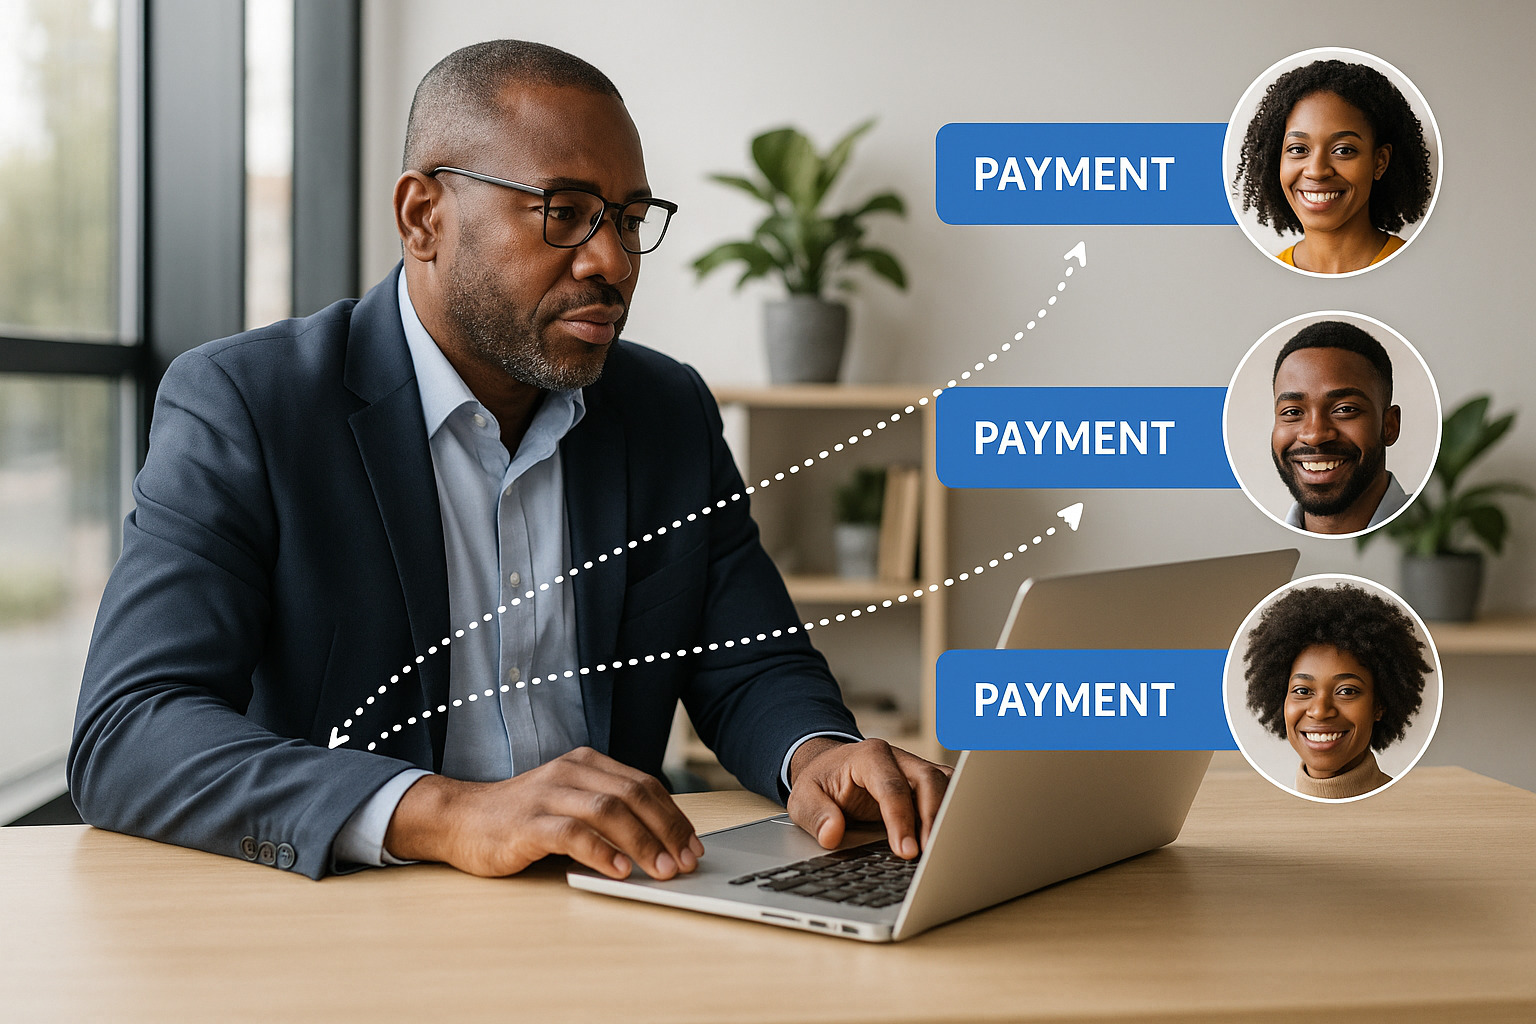
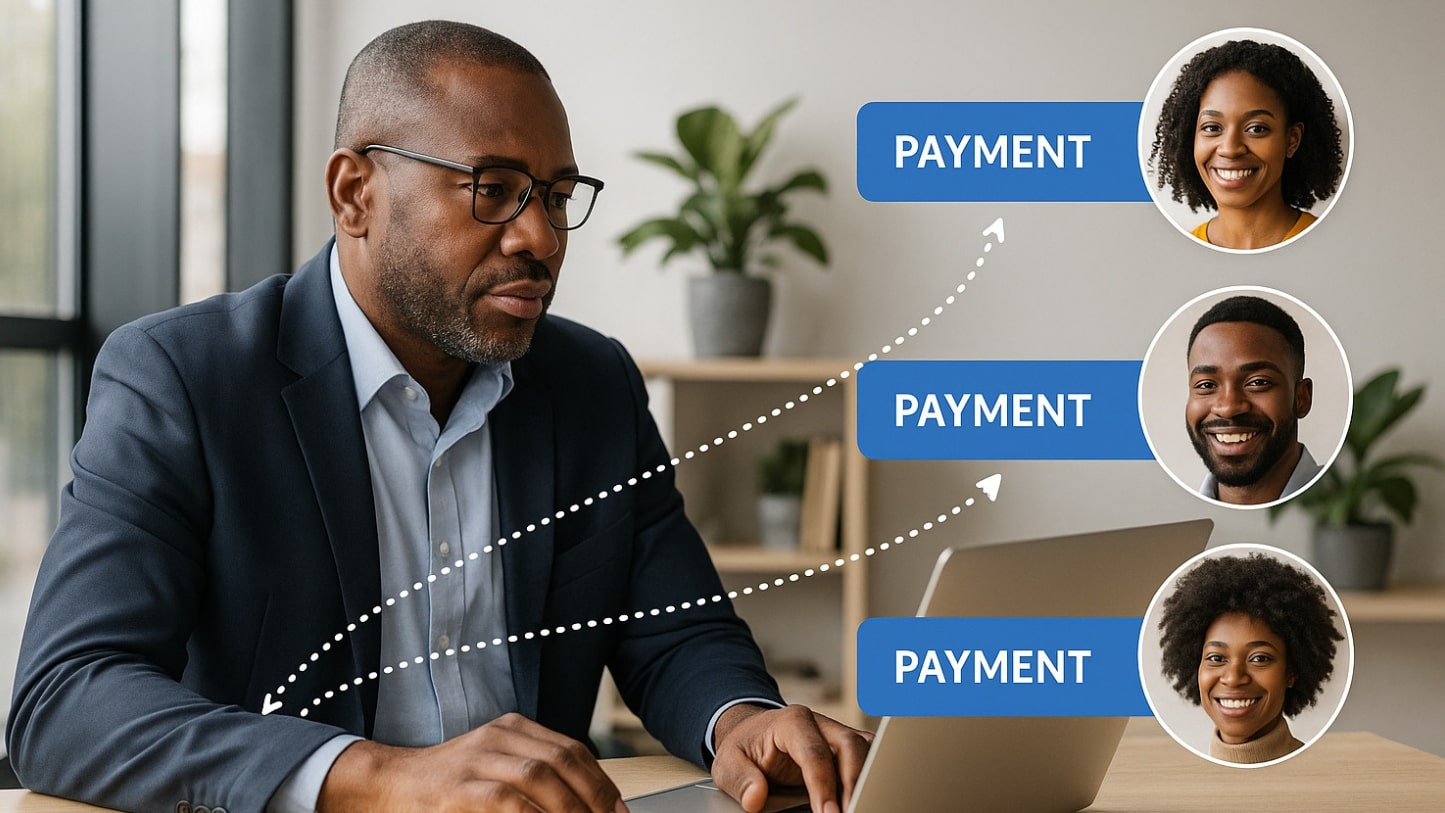
refactor: simplify the solution code and adjust the image size

diff --git a/components/sections/solutions.tsx b/components/sections/solutions.tsx
@@ -7,11 +7,7 @@ import { motion } from "framer-motion";
 import { Button } from "@/components/ui/button";
 import { solutionsData } from "@/data/solutions";
 import { useI18n } from "@/locales/client";
-import {
-  FaCreditCard,
-  FaArrowRight,
-  FaChevronRight,
-} from "react-icons/fa";
+import { FaCreditCard, FaArrowRight, FaChevronRight } from "react-icons/fa";
 import { TbUsersGroup } from "react-icons/tb";
 import { MdSmartphone } from "react-icons/md";
 import { cn } from "@/lib/utils";
@@ -181,54 +177,14 @@ export default function Solutions() {
                 </p>
               </div>
 
-              <div className="relative h-[250px] sm:h-[300px] w-full bg-muted/30">
+              <div className="relative h-[150px] sm:h-[350px] w-full bg-muted/30">
                 <Image
                   src={`/images/${getActiveSolution().id}.jpg`}
                   alt={t(`${getActiveSolution().translationKey}.title`)}
-                  fill
-                  className="object-cover"
-                  sizes="(max-width: 768px) 100vw, 66vw"
+                  className="object-cover max-h-[350px] w-full"
+                  width={800}
+                  height={700}
                 />
-                {getActiveSolution().id === "online-payment" && (
-                  <div className="absolute inset-0 z-10 flex items-center lg:mt-56 mt-20 justify-center gap-4 sm:gap-6 md:gap-8 p-4">
-                    <div className="bg-white/90 backdrop-blur-sm p-2 sm:p-3 rounded-lg shadow-lg">
-                      <Image
-                        src="/images/logo-mpsa.png"
-                        alt="M-Pesa"
-                        width={60}
-                        height={30}
-                        className="h-8 sm:h-10 w-auto object-contain"
-                      />
-                    </div>
-                    <div className="bg-white/90 backdrop-blur-sm p-2 sm:p-3 rounded-lg shadow-lg">
-                      <Image
-                        src="/images/orange-money.png"
-                        alt="Orange Money"
-                        width={60}
-                        height={30}
-                        className="h-8 sm:h-10 w-auto object-contain"
-                      />
-                    </div>
-                    <div className="bg-white/90 backdrop-blur-sm p-2 sm:p-3 rounded-lg shadow-lg">
-                      <Image
-                        src="/images/airtel-money.png"
-                        alt="Airtel Money"
-                        width={60}
-                        height={30}
-                        className="h-8 sm:h-10 w-auto object-contain"
-                      />
-                    </div>
-                    <div className="bg-white/90 backdrop-blur-sm p-2 sm:p-3 rounded-lg shadow-lg">
-                      <Image
-                        src="/images/afrimoney.png"
-                        alt="AfriMoney"
-                        width={60}
-                        height={30}
-                        className="h-8 sm:h-10 w-auto object-contain"
-                      />
-                    </div>
-                  </div>
-                )}
               </div>
 
               {/* Caractéristiques */}
